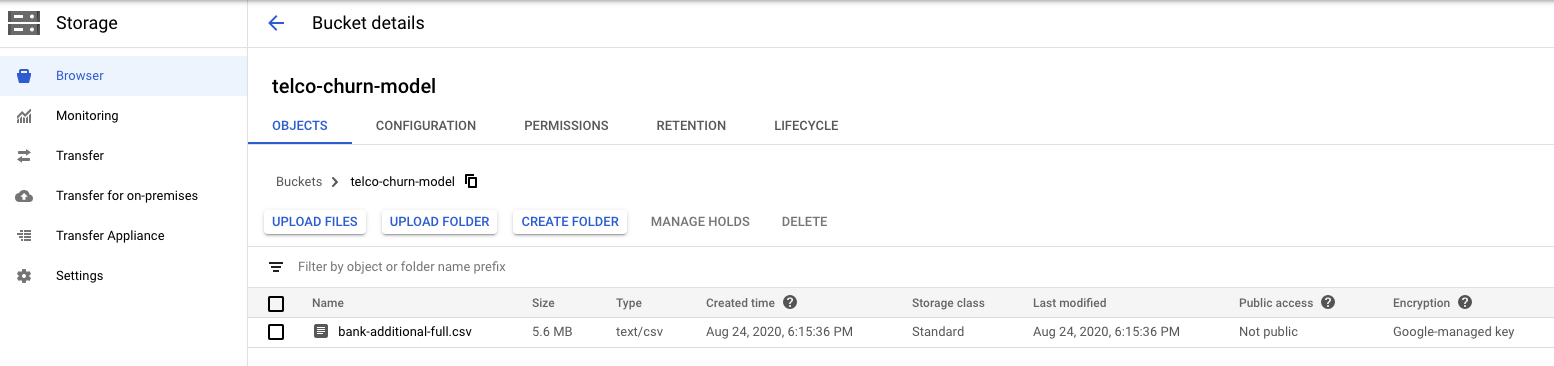
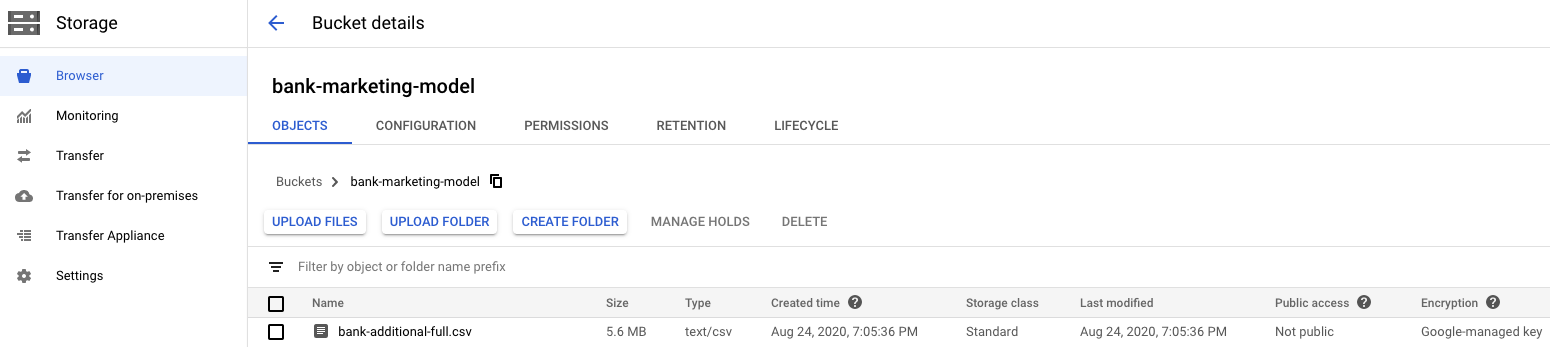
Corrections to the article

diff --git a/training/training_AI.md b/training/training_AI.md
@@ -1,9 +1,9 @@
-# Google AI Platform adventures - Training
-Welcome to the first articles in this series about doing Machine Learning stuff 
+# Google AI Platform adventures - Training a model
+Welcome to the first article in this series about doing Machine Learning stuff 
 on the Google Cloud Platform!
 
-In particular, we will take a look at the [AI Platform](https://cloud.google.com/ai-platform/docs "docs").
-It is a subset of tools strictly related with Machine Learning, among which:
+We will take a look at the [AI Platform](https://cloud.google.com/ai-platform/docs "docs").
+It is a subset of tools strictly related to Machine Learning, among which:
 - AI Platform Training, for training/tuning models on the cloud
 - AI Platform Prediction, to host trained models on the cloud
 - AI Pipelines, to create a step-by-step process using Kubernetes and Docker Images
@@ -16,53 +16,50 @@ daily job.*
 
 For this first article, I'll focus on *AI Platform Training*, a product to run
 training jobs on the Cloud with custom code and customizable machines. I think 
-the main advantage using the AI Platform to train your models is that you can 
-use more powerful resources (like multiple cores or a GPU) without a lot of 
-hassle to instantiate them.
+the main advantages of using the AI Platform to train your models are:
+- you can use more powerful resources (like multiple cores or a GPU) without a lot of hassle to instantiate them
+- you can share the code with your team and reproduce the same results using a common Cloud infrastructure
 
-In this tutorial we will see how to train an end-to-end Machine Learning model
-by:
-- writing the actual Python application with the definition of the training
-- run a local test
-- run the training job on the Cloud Platform
+In this tutorial, we will write the actual **Python application** with the 
+definition of the training, run a **local test**, and execute the **training 
+job** on the Cloud Platform.
 
 For the tutorial, you will need:
-- an active Google Cloud Platform account (you can setup a new account visiting
-the [homepage](https://cloud.google.com/)) and a GCP project 
-- Python3
-- [gcloud](https://cloud.google.com/sdk/docs) and
+- an active Google Cloud Platform account (you can set up a new account visiting
+the [homepage](https://cloud.google.com/)) and a GCP *project* 
+- Python 3, [gcloud](https://cloud.google.com/sdk/docs) and
 [gsutil](https://cloud.google.com/storage/docs/gsutil_install) installed on your
  workstation
-- the [dataset used for tutorial](https://archive.ics.uci.edu/ml/machine-learning-databases/00222/bank-additional.zip),
+- the [dataset used for the tutorial](https://archive.ics.uci.edu/ml/machine-learning-databases/00222/bank-additional.zip),
 UCI's *bank marketing dataset*. [Here](https://archive.ics.uci.edu/ml/datasets/Bank+Marketing) 
-you can find the documentation about the dataset. We will use the *full* version.
+you can find the documentation about the dataset. We will use the **full** version.
 
 ## Step 1: store the data on Google Storage
-After you downloaded the dataset on your local machine, go to the Google Storage
-of your GCP project. Create a new bucket (I'll call it `telco-churn-model`) and
-load the dataset in it. The situation should look like this:
+After you downloaded the dataset on your local machine, go to the [Google Storage console](https://console.cloud.google.com/storage/)
+of your GCP project. Create a new bucket (I've called it `bank-marketing-model`) and
+load the dataset in it. Now your bucket should look like this:
 
 ![Bucket](./images/bucket.png)
 
-If you want the more geeky way, you can use the `gsutil` application from the
-command line. Then, from the command line, go into the local directory
-containing the dataset and
+Alternatively, in a more geeky way, you can use `gsutil` from the
+command line. Go into the local directory containing the dataset and run
 
-```
-# Create the bucket
+```shell script
 gsutil mb gs://bank-marketing-model
-# Upload the file
-gsutil cp bank-additional-full.csv gs://bank-marketing-model
+gsutil cp ./bank-additional-full.csv gs://bank-marketing-model
 ```
+
+- `gsutil mb` creates the bucket
+- `gsutil cp` copies a file from the local path to the GCS bucket
 
 ## Step 2: write the Python training application
 If you're reading this, chances are that you already know how to write an 
 end-to-end Python program to train a Machine Learning model. Anyway, since we're
  planning to train the model on the Cloud, there are a few steps that are 
-someway different than the usual __Kaggle-ish__ code.
+someway different than the usual *Kaggle-ish* code.
 
-First thing to bare in mind, **you can use only scikit-learn, XGBoost or 
-Tensorflow** to train your model in the "classic" Training job (there is a way 
+The first thing to bear in mind, **you can use only scikit-learn, XGBoost or 
+Tensorflow** to train your model (Pytorch is in beta, and there is a way 
 to use a custom Python environment, but we'll see it in another article).
 
 So, the basics of the Python application are:
@@ -78,7 +75,7 @@ subprocess.call([
 
 df = pd.read_csv(os.path.join(LOCAL_PATH, 'dataset.csv'), sep=';')
 ```
-- do some data preparation (split train-test, missing imputation, ...)
+- do some data preparation (split train-test, missing imputation, ...) and create the pipeline
 ```python
 train, test = train_test_split(df, test_size=args.test_size)
 
@@ -141,20 +138,22 @@ subprocess.call([
 ])
 ```
 
-You can find the whole code on [Github](): at the top of the code there are a few parameters that you can tune.
+You can find the whole code on [Github](https://github.com/MatteoFelici/medium/blob/master/training/src/train.py).
+ 
+*N.B.: at the top of the code there are a few parameters that you can tune.*
 
 ## Step 3: test the code locally
 Before submitting the training process on the Cloud Platform, it is better to 
 test the code locally. For both local and cloud training, we will use `gcloud`; 
-the command is quite similar, but there are a few differences.
+the command to run is quite similar, but there are a few differences.
 
 First, to **train the model locally with the AI Platform**, we can write a command 
 that "revert" this logic:
 `gcloud ai-platform` (with the AI Platform) `local` (locally) `train` (train 
-the model), and then we add a bunch of parameters, some specific of the training
- process, others defined in our custom Python application. 
+the model). We add a bunch of parameters, some of which are specific to the training
+ process, others are defined in our custom Python application.
 
-After you go into the main directory, with the `/src` directory, the complete 
+After you go into the main directory, with the `src` directory, the complete 
 command goes like this:
 ```shell script
 gcloud ai-platform local train \
@@ -166,13 +165,13 @@ gcloud ai-platform local train \
 ```
 
 Let's take a look at the parameters:
-- `module-name` is the name of the module to run, in the form of directory.python_file
+- `module-name` is the name of the Python module to run, in the form of directory.python_file
 - `package-path` is the path to the module directory
 - `--` tells that we start sending custom parameters
 
 Since this is a test run, we specify a low number of trees for the Random Forest.
 
-If everything runs without errors, we can switch to the actual training on the Cloud!
+Keep in mind that, even if this is a local test run, it will create all the artifacts and save them to your Storage Bucket. If everything runs without errors, we can switch to the actual training on the Cloud!
 
 ## Step 4: train on AI Platform
 Now that we have written the application and tested it, we can finally train our model on the Platform. For example, we can instantiate a multi-core machine type and parallelize the training of the Forest. 
@@ -200,18 +199,18 @@ Once again, let's take a look at the new parameters:
 - `module-name` and `package-path` are the same as before
 - `staging-bucket` points to a Google Storage bucket where to store training artifacts
 - `region` is the Google Cloud region ([here](https://cloud.google.com/compute/docs/regions-zones)
- the full list). The machines instantiated for these jobs are located all around
-  the world. With this parameter, you can specify where to instantiate the 
+ the full list). Since the machines instantiated for these jobs are located all around
+  the world, you may want to specify where to instantiate the 
   machine. If you are unsure how to set this parameter, simply set the closest 
   region from where you are!
 - `scale-tier` specify which type of machine to use for the training. This is a 
 high-level parameter, you can set it to a default configuration (like `BASIC` or
- `STANDARD_1`) or set it to `CUSTOM` and use the `master-machine-type` parameter
+ `STANDARD_1`), or set it to `CUSTOM` and use the `master-machine-type` parameter
   to use a low-level definition of the machine. In our example, we use a 
 *standard* machine with **8** cores. We can also specify *highmem* (for more 
 memory) or *highcpu* (for more virtual CPU) instead of *standard*. The full list
- of `scale-tier`s and specific machineis [here](https://cloud.google.com/ai-platform/training/docs/machine-types#compare-machine-types).
-- The `python-version` and `runtime-version` parameters specify the backbone of the packages installed on the machine. For each *runtime* ([here](https://cloud.google.com/ai-platform/training/docs/runtime-version-list) the full list) we have one or more Python versions we can use, and a list of Python packages already installed.
+ of `scale-tier`s and available machines is [here](https://cloud.google.com/ai-platform/training/docs/machine-types#compare-machine-types).
+- `python-version` and `runtime-version` parameters specify the backbone of the packages installed on the machine. For each *runtime* ([here](https://cloud.google.com/ai-platform/training/docs/runtime-version-list) the full list) we have one or more Python versions we can use, and a list of Python packages already installed.
 
 ```
 BONUS TIP: if you want to install a package that is not available in the runtime 
@@ -223,13 +222,22 @@ subprocess.call(["pip", "install", name_of_the_package])
  run 8 jobs in parallel.
 
 
-N.B. the `$JOB_NAME` in the code above is not a valid name, but it's a reference to a bash variable defined before. It is very important to specify each time a different job name. For example, as you can see in the [cloud_train]() script, we can specify `JOB_NAME=bank_marketing_$(date +%Y%m%d_%H%M%S)`, so the suffix will change every time with the actual day and time.
+N.B. the `$JOB_NAME` in the code above is not a valid name, but it's a reference 
+to a bash variable defined before. It is very important to specify each time a 
+different job name. For example, as you can see in the [cloud_train](https://github.com/MatteoFelici/medium/blob/training/training/cloud_train.sh) 
+script, we can specify
 
-If it's the first time you use this tool, it will probably asks you to enable a specific Google API (like `ml.googleapis.com`): accept to enable it and continue. If everything's ok, the command should return something like this:
+```
+JOB_NAME=bank_marketing_$(date +%Y%m%d_%H%M%S)
+```
+
+so the suffix will change every time with the actual day and time.
+
+If it's the first time you use this tool, it will probably ask you to enable a specific Google API (like `ml.googleapis.com`): accept to enable it and continue. If everything is ok, the command should return something like this
 
 ![Job OK](./images/job_ok.png)
 
-and at your [Google AI Platform Jobs console](https://console.cloud.google.com/ai-platform/jobs) you should see the new job running
+and in your [Google AI Platform Jobs console](https://console.cloud.google.com/ai-platform/jobs) you should see the new job running
 
 ![Job running](./images/job_running.png)
 
@@ -239,7 +247,7 @@ Now, you can monitor the training job in two ways:
 
 ![Job finished](./images/job_finished.png)
 
-Hooray! The job finished correctly. Let's take a look at our Storage bucket:
+Hooray! The job ended correctly. Let's take a look at our Storage bucket:
 
 ![Training bucket](./images/training_bucket.png)
 
@@ -251,6 +259,8 @@ Let's take a look at the model performances... We can download the results file,
 gsutil cat gs://your-bucket/your/path/to/results.csv
 ```
 
+to see the file directly on the command line.
+
 For my trained model, I got these results:
 
 | Measure     | Train  | Test   |
@@ -260,6 +270,9 @@ For my trained model, I got these results:
 | *Recall*    | 94.03% | 94.13% |
 | *F1*        | 52.44% | 51.22% |
 
-These are quite good results, but we can do better by **tuning hyperparameters** of the model.
+These are quite good results, but we can do better by **tuning the 
+hyperparameters** of the model. In the next article, we will see how to slightly 
+change the training application to make the AI Platform search the best 
+hyperparameters with a **Bayesian optimization process**!
 
-On the next article, we will see how to slightly change the training application to make the AI Platform search the best hyperparameters with a Bayesian optimization process!
+Thanks for reading, and I hope you will find this useful!
